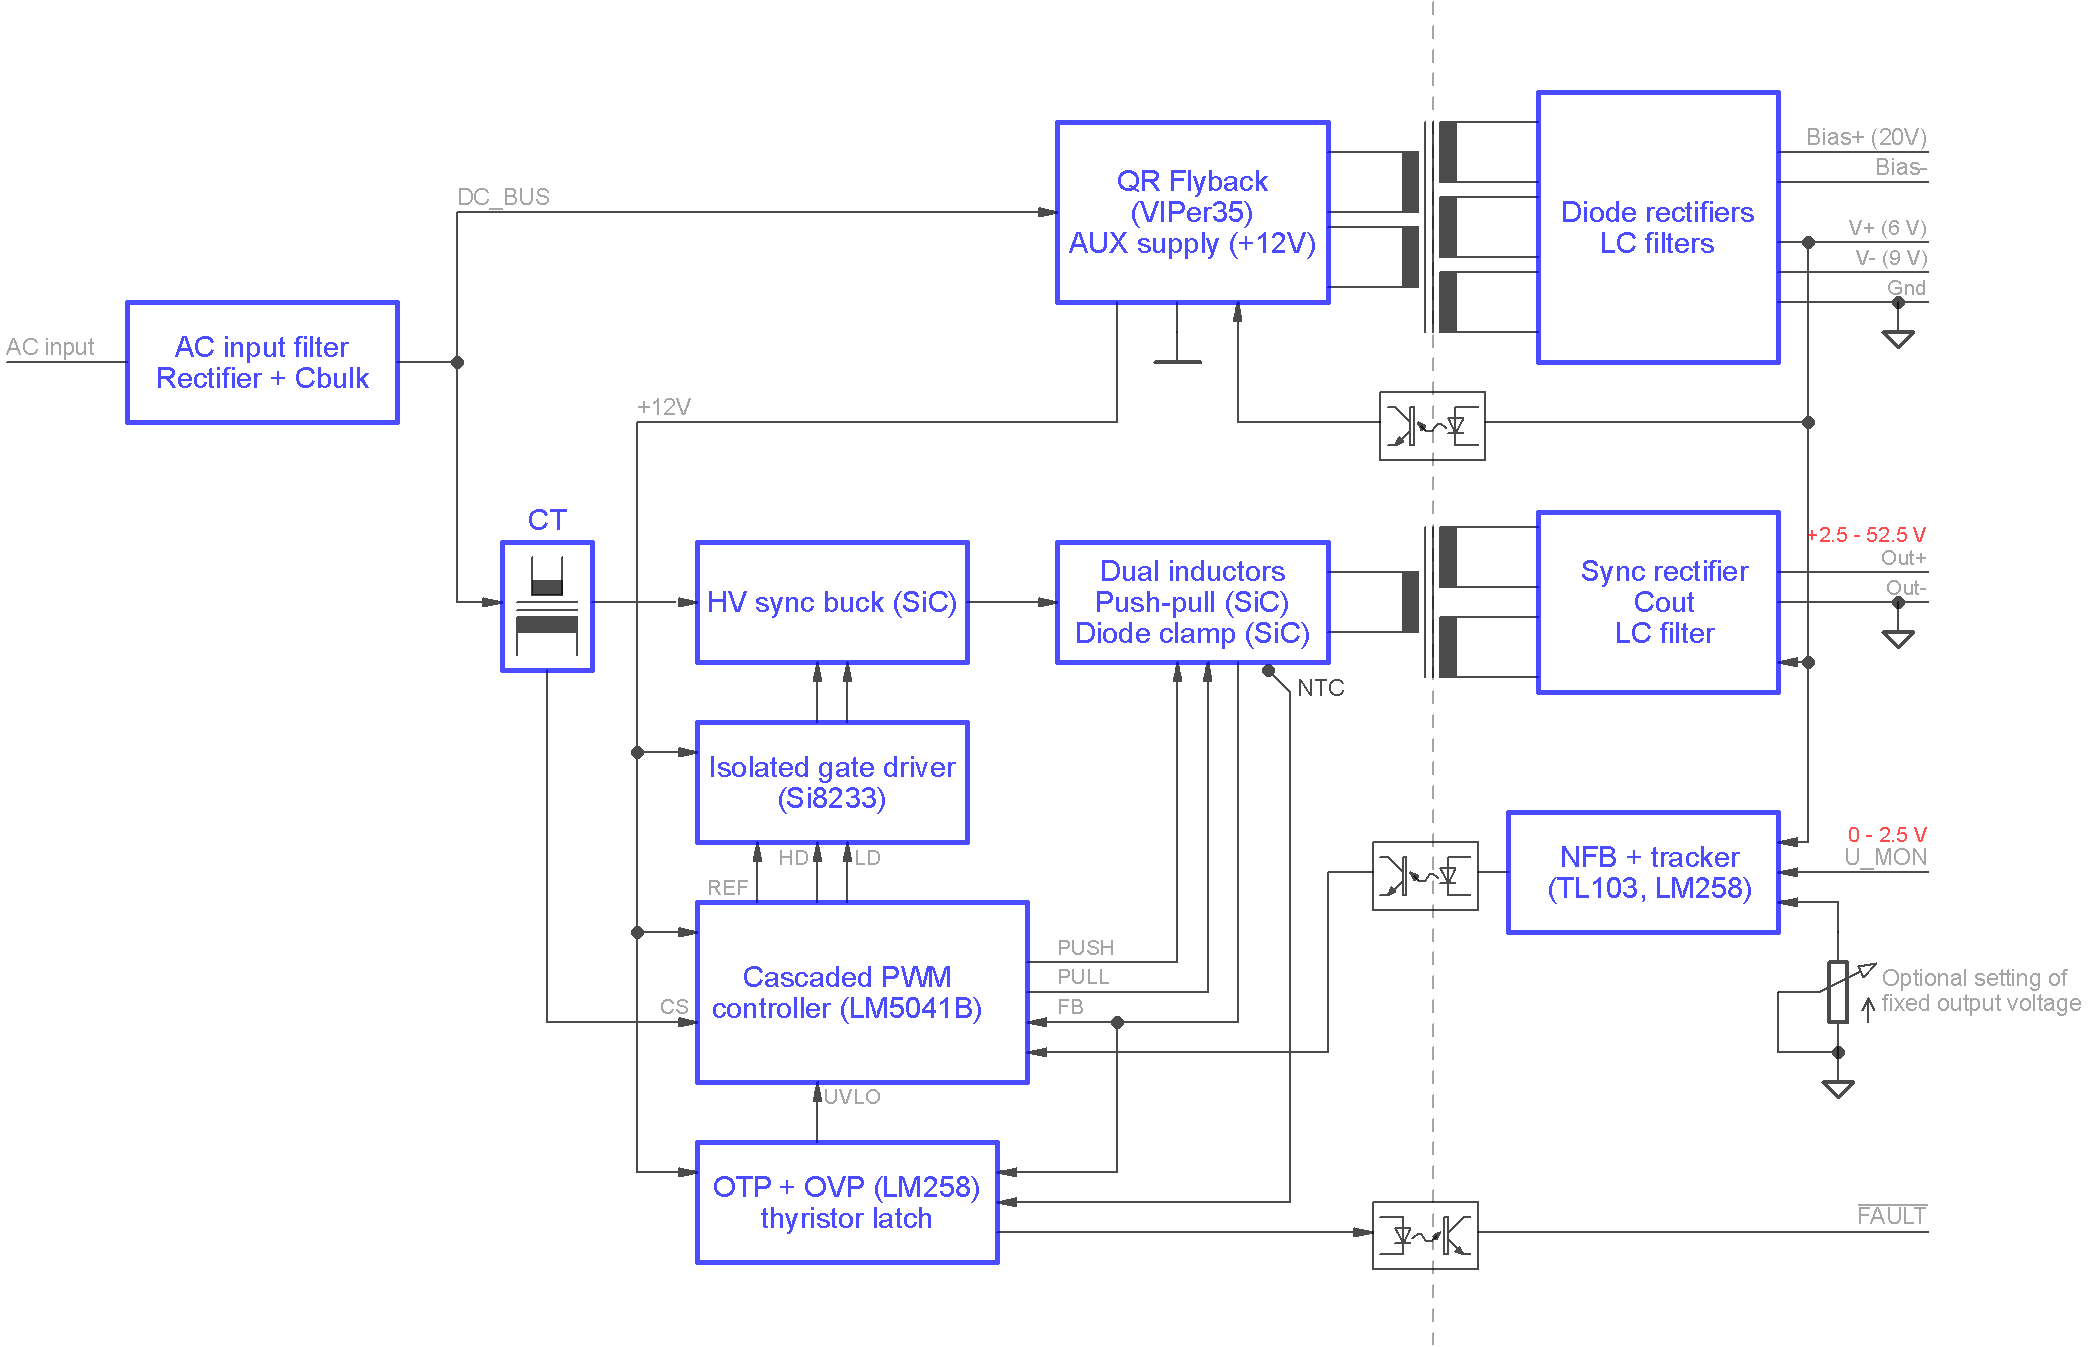
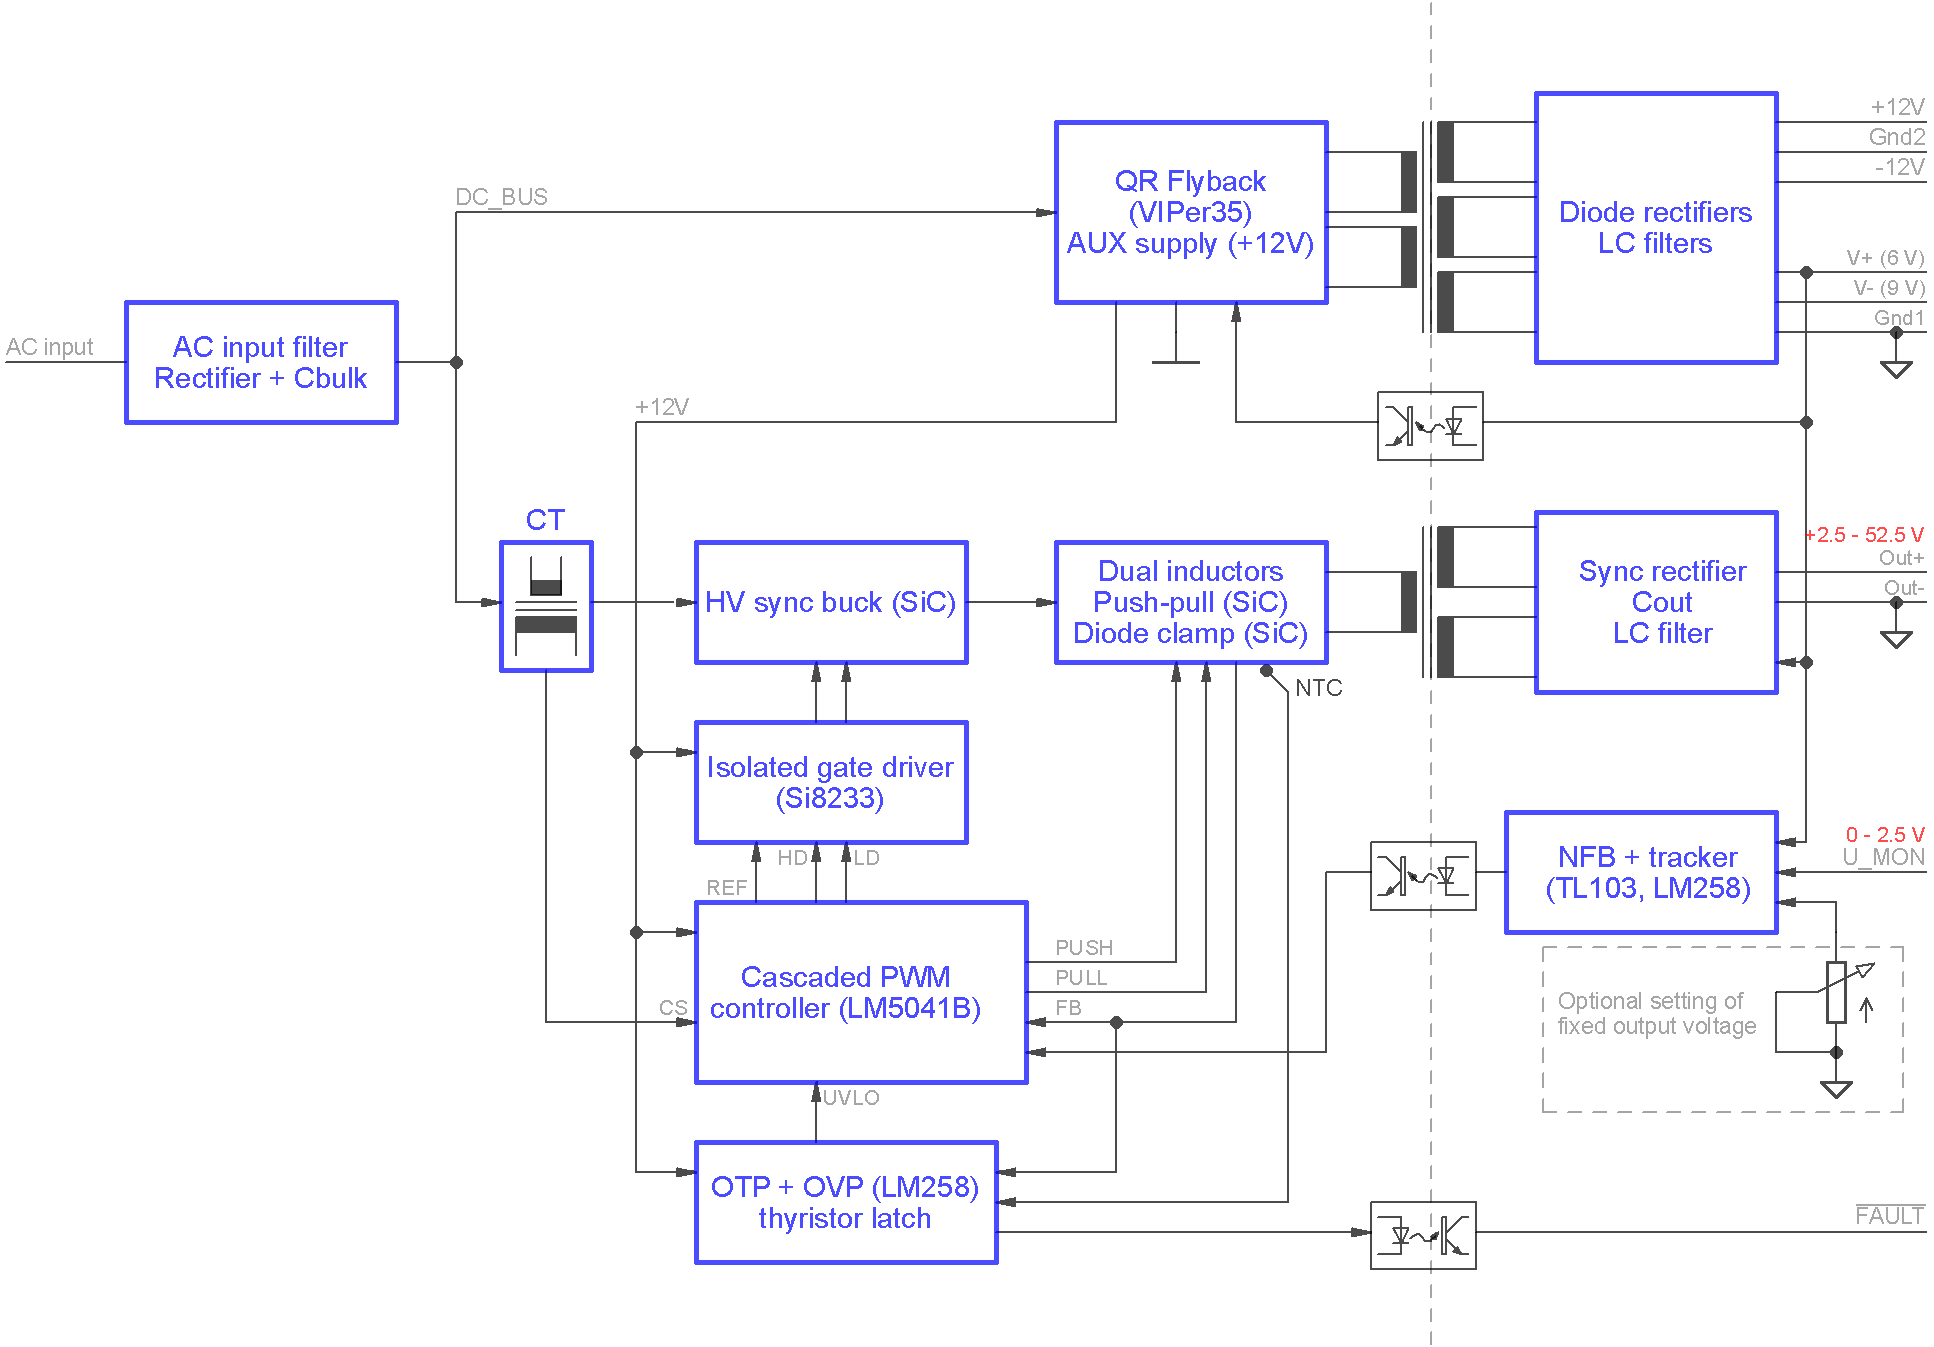
new block diagram

diff --git a/README.md b/README.md
@@ -6,17 +6,18 @@ Inspired by article Filho, Barbi (1996), *[A comparison between two current-fed 
 
 ### Feature list
 
-* Wide AC input 85 - 265 V
-* Wide DC output: 2.5 - 52.5 V
-* Output voltage controlled by tracker circuit or optionally with multiturn trimpot
+* Wide AC input 85 – 265 V
+* Wide DC output: 2.5 – 52.5 V
+* Max. current 5 A continuously (max. power up to ~260 W)
+* Output voltage controlled by tracker circuit or optionally with multiturn trimpot if fixed output voltage is required
 * Cascaded PWM Controller LM5041B (sync buck + push-pull stage)
 * Isolated HV power ground and signal ground for improved noise immunity
-* High performance SiC MOSFET switches
+* HV buck section with high performance SiC MOSFET switches
 * High performance Vitroperm 500F core material for power transformer
-* Max. current 5 A continuously (max. power up to ~260 W)
 * Synchronous rectifier with low R(gs,on) MOSFET switches
-* Over-voltage (OVP), short circuit protection and over-temperature protection (OTP) with latch and "Fault" output
-* Bias power supply outputs: +6 V, -8 V and "floating" +20 V
+* Active Duty cycle limiter
+* Over-voltage (OVP), short circuit protection and over-temperature protection (OTP) with latch and opto-isolated open-collector "Fault" output
+* Four bias power supply outputs: +6 V, -8 V and "floating" +12 V / -12 V
 * Over-current protection (OCP)
 * f(sw,buck)= ~68 kHz, f(sw,pp)= ~34 kHz
 * QR flyback as bias power supply (VIPer35)
